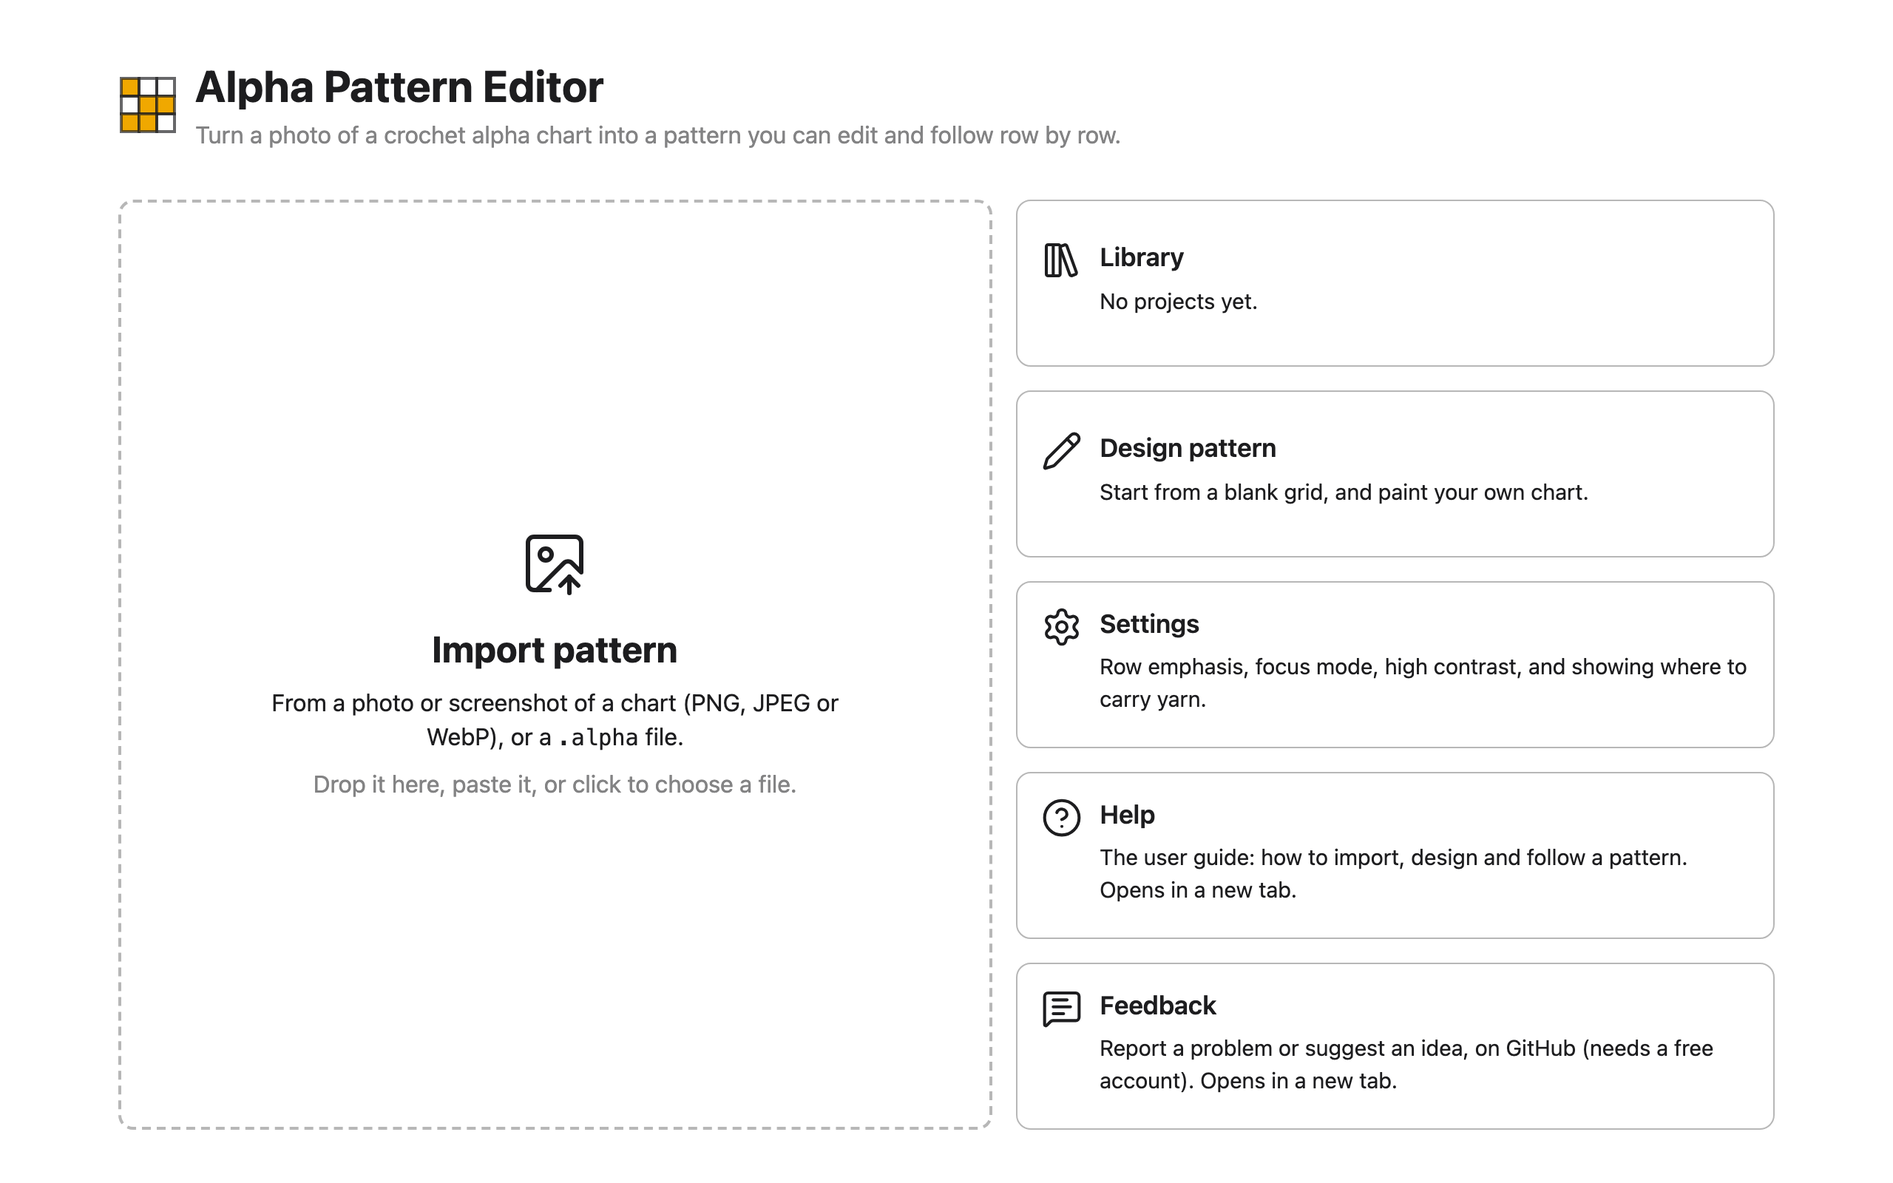
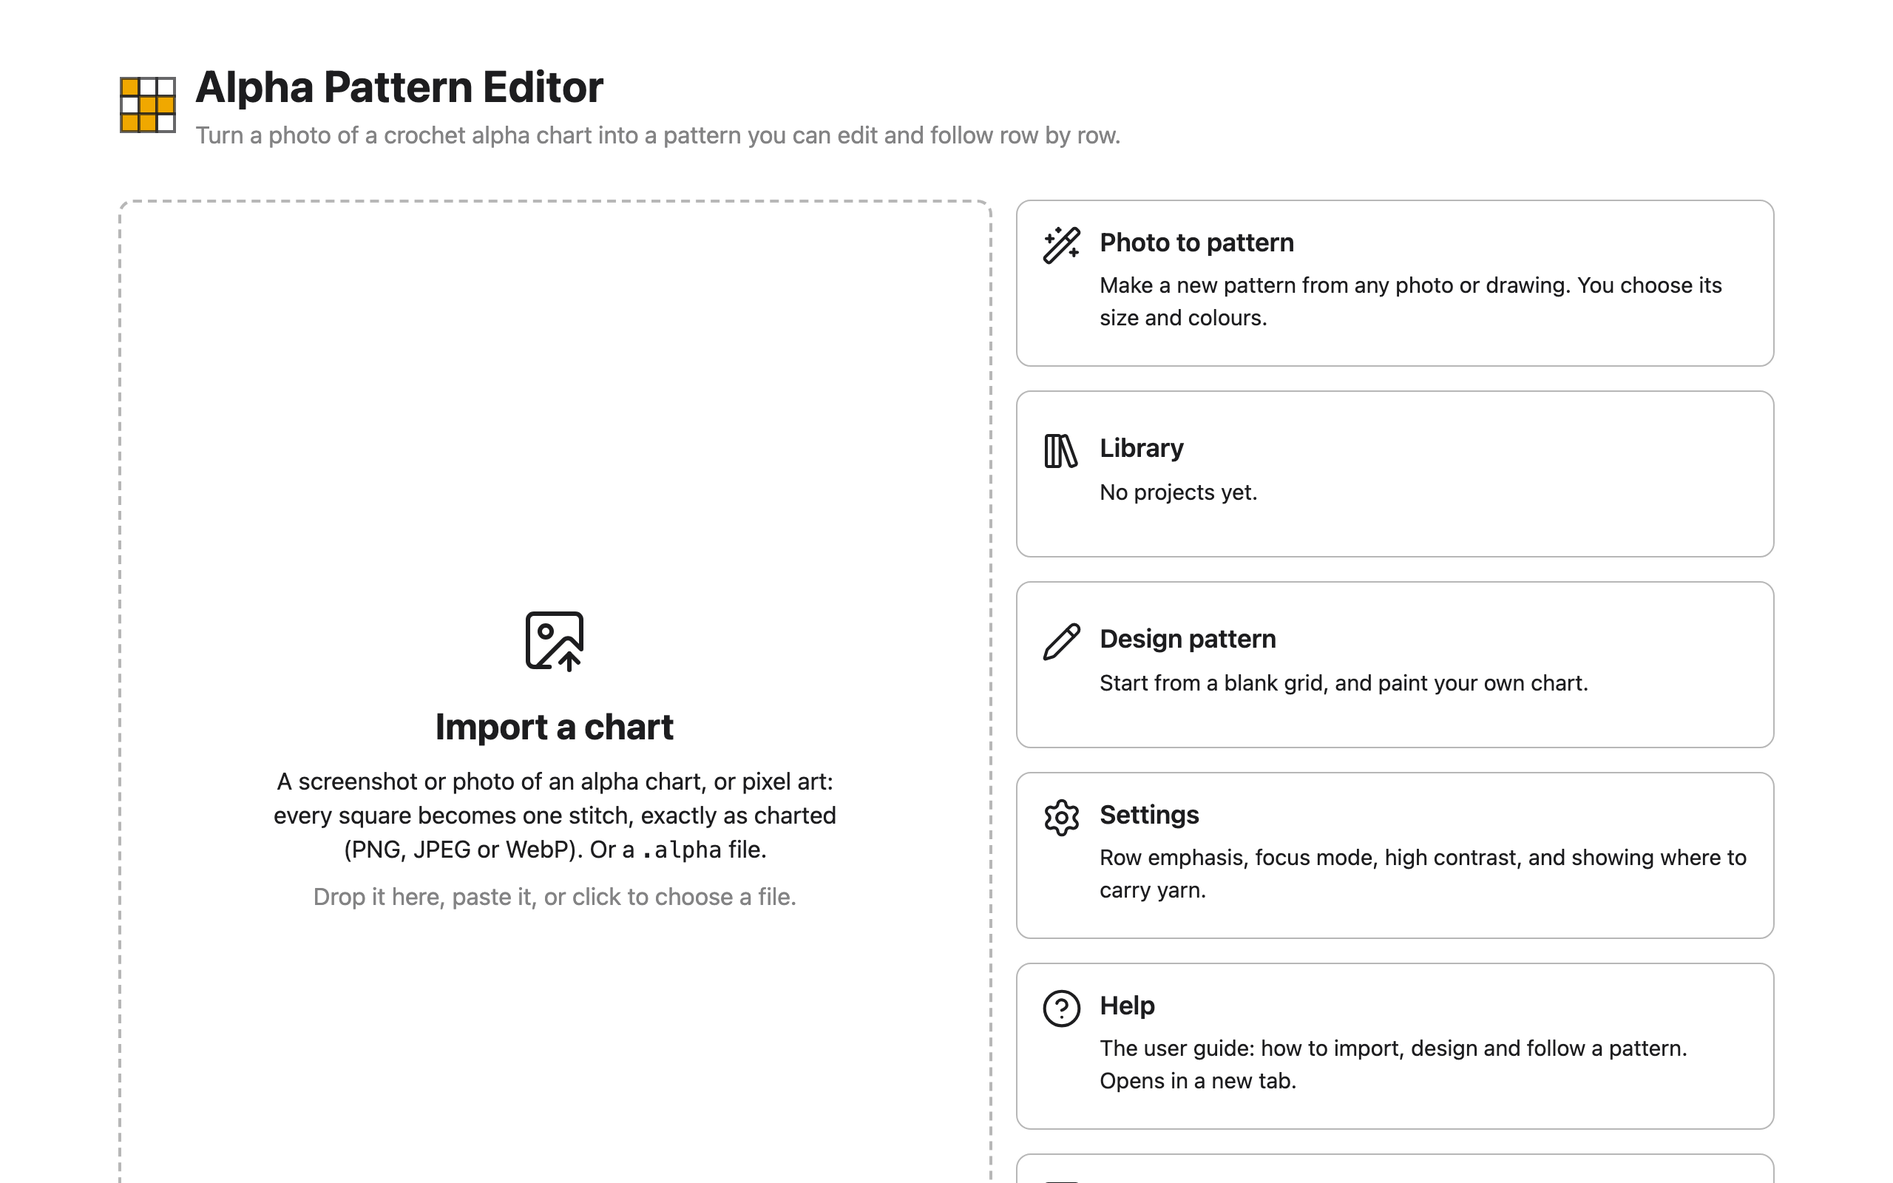
Docs: Import a chart and Photo to pattern
The guide's import page gains a Photo to pattern section (the app's ? links to
it) and pixel art; the home screen and import screenshots are regenerated. Spec
§5a, a rule that the person says chart or photo, the import area note, the
changelog and the README follow.

diff --git a/docs/dev/areas/import.md b/docs/dev/areas/import.md
@@ -135,7 +135,8 @@ Newest last, as they were built.
     found). A chart read with doubts (over 15% unsure) says "Not sure this is a chart" in
     the warning colour. A chart detection refuses as too fine or tilted keeps its advice
     and adds "Turn it into a pattern anyway": such an image is never converted unasked.
-    For a chart, that one line is all that changes.
+    For a chart, that one line is all that changes. (Since replaced by two ways in, and
+    no switching: [Import a chart, or Photo to pattern](#chart-or-photo).)
   - **A picture's controls:** Width (a slider, stitches across; rows follow; "60 × 45
     stitches, about 38 × 28 cm" once the swatch is measured) and Detail (Smoothest …
     Every stitch) sit above the colour list, so the stages' chrome (`--col-chrome`) is
@@ -174,7 +175,8 @@ Newest last, as they were built.
 - <a id="pixel-images"></a>**Pixel images** (`core/pixels.py`, `kind.py`, the bridge's `pixels` mode; spec.md
   §5a). Pixel art without gridlines is read exactly, a stitch per block: "Read pixel by
   pixel: each block of your image is one stitch.", with "Turn it into a pattern instead"
-  and back ("Read it pixel by pixel instead"). No outline or box; colours merge as a
+  and back ("Read it pixel by pixel instead"; since gone, see
+  [Import a chart, or Photo to pattern](#chart-or-photo)). No outline or box; colours merge as a
   chart's. Before, an 8× sprite came out cropped (60×60 as 51×58), 4× and 1:1 were
   refused, and a real 8× city (137×126) was a "sure chart" spanning 69% of it.
   - Found by testing real CC0 pixel art (`test_images/pixels/`, fetched with provenance by
@@ -255,6 +257,44 @@ Newest last, as they were built.
     was nearest olive. "tree green" (`#2a7e19`, from the xkcd survey) is now an anchor.
   - Speed, natively: a drawing's preview 0.7–0.9 s at 122–156 wide (was 0.6–0.7 s);
     photos unchanged.
+- <a id="chart-or-photo"></a>**Import a chart, or Photo to pattern** (`core/kind.read_chart`,
+  `bridge.open_session(intent=)`, `ui/screens/Import.tsx`, `app/router.ts`, the home
+  screen; spec.md §5a). The person says what they have, in place of the app deciding
+  with a line and a switch ("Read from the squares of your chart. · Turn it into a
+  pattern instead").
+  - **Why:** the owner pasted charts that were called pictures and converted, though
+    "Read it as a chart instead" then read them perfectly. `kind.py` rejects a grid on any
+    of five measures; of 300 synthetic charts, 7 were judged pictures, 5 of them only
+    because the grid spanned under 60% of one side (`span` 0.48–0.61), as a screenshot
+    with page around the chart does. All 7 are now read: 5 at the size they were drawn; the
+    other 2 (60% and 95% of squares unsure, so shown with the warning) 13 and 1 columns
+    off. The wording confused too: everything the
+    import makes is "a pattern". Research (Stitch Fiddle asks for "Picture" up front;
+    nine or more free tools convert photos; none found reads an existing chart's
+    squares) put the chart first and the photo path beside it.
+  - **Import a chart** (`#/import`, the drop zone, paste, the Library's picker):
+    `read_chart` reads pixel art block by block as before, and any grid as a chart.
+    Nothing more is said of a clean chart. Over 15% of squares unsure: "⚠ Many squares
+    were hard to read. Check the pattern against your image before you save." with
+    "Use Photo to pattern instead". Pixel art: "Read as pixel art: each block of your
+    image is one stitch.", with nothing to switch to. No grid, or refused: detection's
+    advice, then "Not a chart? Photo to pattern makes a new pattern from any photo or
+    drawing." and **Use Photo to pattern**.
+  - **Photo to pattern** (`#/photo`, a tile beside the drop zone): `open_session(intent=
+    "picture")` converts without detecting (no line above the stages: the title says
+    it). Its controls are as before. The button from a chart hands the same image and the
+    name typed over (`PendingImage.name`) and navigates, so Back reads it as a chart
+    again; the worker stays (App.tsx releases it off both routes).
+  - **Gone:** `bridge.set_mode`, the worker's `mode` request, `DetectSession.setMode`, and
+    `canChart`/`canPixels` in `reading`: nothing switches inside a session any more. Pixel
+    art can't be turned into a picture on its screen; Photo to pattern converts it.
+  - Tests that fail without it: on `main`'s `kind.py` and `bridge.py`, a chart that
+    `_chart_or_picture` judges a picture opens with `mode` "picture"
+    (`test_a_grid_judged_a_pictures_is_still_read_as_a_chart`,
+    `test_a_forced_chart_with_many_unsure_squares_is_not_sure`). `test_kind.py` reads every
+    corpus chart, picture and pixel image through `read_chart`: never a picture.
+  - Tier A (gzipped, `main` → this): main chunk 109.66 → 110.48 KB (the tile, its icon,
+    the route), Import 10.84 → 10.45 KB, Design 33.34 → 33.19 KB.
 
 ## During the port
 

diff --git a/docs/guide/import.md b/docs/guide/import.md
@@ -1,9 +1,12 @@
 # Importing a chart
 
-The import screen turns a picture of a chart into a pattern. The app finds the grid,
+**Import a chart** turns a picture of a chart into a pattern. The app finds the grid,
 reads each stitch's colour and names the colours; your job here is only to check that the
 grid is right, and fix it if it isn't. Changing the pattern itself (painting, removing or
 renaming colours) comes next, in [Design](design.md).
+
+Don't have a chart, just a photo or a drawing? Use
+[Photo to pattern](#photo-to-pattern) instead: it makes a new chart from any image.
 
 <img src="media/import-detected-grid.png" alt="The import screen: the chart image with the detected grid on the left, the pattern it became in the middle, and its five colours with stitch counts on the right" width="800">
 
@@ -23,6 +26,11 @@ a chart best when:
 Row and column numbers, watermarks, captions and page margins around the grid are fine:
 they're left out.
 
+**Pixel art** works too, with or without gridlines: a game sprite or an icon, enlarged or
+not. Each block of colour becomes one stitch, exactly, and the screen says "Read as pixel
+art". There's no outline to move, since nothing is guessed. (Pixel art saved as JPEG
+isn't exact, so it's read as a chart instead.)
+
 Very large photos are shrunk before reading (to about 4 megapixels). The app says so
 under the pattern when it does: check the size, and fix it in Design if needed.
 
@@ -33,8 +41,11 @@ From the home screen or the [Library](library.md):
 - **drop** the image anywhere on the page;
 - **paste** it (`Ctrl+V`, or `Cmd+V` on a Mac), for example straight after taking a
   screenshot;
-- or click **Import pattern** (on the home screen) or **Import pattern…** (in the Library)
+- or click **Import a chart** (on the home screen) or **Import pattern…** (in the Library)
   and choose the file. On a phone or tablet, tap it.
+
+An image opened this way is always read as a chart: the app never turns it into a
+different pattern by itself.
 
 One image is imported at a time. If you drop several, the first opens and the app says
 so.
@@ -58,7 +69,10 @@ Compare the pattern with your image. The most common problems are a row or colum
 at an edge, or two shades that should be one colour. Both are fixed below.
 
 A warning (⚠) above the image means the app is less sure than usual; see
-[Troubleshooting](troubleshooting.md#a-warning-shows-above-the-image).
+[Troubleshooting](troubleshooting.md#a-warning-shows-above-the-image). "Many squares
+were hard to read" means many squares didn't come out as one clear colour: compare the
+pattern with your image before you save. If your image is really a photo and not a chart,
+**Use Photo to pattern instead** beside it takes the same image there.
 
 ## Fix a grid that's a row or column short
 
@@ -118,3 +132,30 @@ If the app can't read the image, it says why in place of the pattern, with what 
 Each message and its fix is in [Troubleshooting](troubleshooting.md#import-messages).
 Most often, a box dragged around just the squares, or a larger, straighter copy of the
 chart, gets it read.
+
+If the image isn't a chart at all, **Use Photo to pattern**, under the message, takes it
+(and the name you typed) to [Photo to pattern](#photo-to-pattern). Your browser's Back
+button returns to reading it as a chart.
+
+## Photo to pattern
+
+**Photo to pattern**, a tile on the home screen, makes a new chart from any photo or
+drawing: a pet, a flower, a logo. Unlike importing a chart, nothing is read from the
+image square by square. It's redrawn in stitches, and you choose how:
+
+- **Width:** how many stitches across. The rows follow from the image's shape (and from
+  your swatch, once it's measured in [Settings](settings.md), which also gives the
+  finished size in cm).
+- **Detail:** from "Fewer colour changes", which smooths away lone stitches you'd have to
+  change yarn for, to "More detail".
+- **Keep outlines:** for drawings with dark lines, such as a cartoon. It keeps them, one
+  stitch thick. Off to start with; turn it on and see whether it helps.
+- **Colours:** the − and + beside the heading make the pattern again with one colour
+  fewer or more.
+
+The blue outline crops the image: drag an edge to use only part of it, or drag a box on
+the image. **Use the whole picture** undoes it. Then name the pattern and press
+**Save & edit pattern**, as for a chart.
+
+Crop close to what you want to see: the background is stitches you'll crochet and never
+look at.

diff --git a/docs/dev/spec.md b/docs/dev/spec.md
@@ -273,11 +273,27 @@ Build a debug window early — not last — rendering: dark mask, `run_h`/`run_v
 
 ## 5a. Pictures (web only)
 
-The web import takes any image. A **chart** is read (§5); anything else is a **picture**,
-turned into a pattern. There is no choice to make up front: the app decides, says which,
-and the other reading is one click away. The desktop app stays chart-only.
+The web app has two ways in, and the person chooses: **Import a chart** reads a chart
+(§5), or pixel art block by block; **Photo to pattern** turns any image into a pattern as
+a **picture**. Reading a chart is what the app is for, so it has the home screen's drop
+zone, and a dropped or pasted image is read as a chart; Photo to pattern has its own tile
+and screen (`#/photo`). The desktop app stays chart-only.
 
-### Chart or picture (`core/kind.py`)
+Asked for a chart, the app tries its hardest to read one and never converts unasked:
+any grid detection finds is read, whatever `kind.py` makes of it below
+(`kind.read_chart`), and with no grid the screen gives detection's advice, with a button
+to Photo to pattern. A chart read with more than 15% of its squares unsure is shown with
+a warning to check it, and the same button. Asked for a picture, nothing is detected.
+
+Before, one import decided by itself, and a chart judged a picture (most often a
+screenshot whose grid spans under 60% of one side) was converted, a dead end until the
+person found the switch. 7 of 300 synthetic charts in `synth.random_spec` were judged so;
+all 7 are now read as charts.
+
+### Chart, picture or pixel art (`core/kind.py`)
+
+`kind.read_image` still classifies, because pixel art is told from a chart by it (below,
+and `rules.md#pixel-art-last`), and its verdicts are tested image by image.
 
 Detection's success or failure doesn't decide it: most photos fail as LOW_RESOLUTION
 (texture fits 3–5 px squares), and so does a real chart with 5 px squares; a picture can
@@ -286,11 +302,11 @@ it spans at least 60% of each side, its edge strength on the lattice is at least
 that half a square off it, its gridlines have an edge along at least half their length
 (a drawing's lattice crosses its lines at a point or two), and no more than 60% of its
 cells are unsure. With more than
-15% unsure it is a chart **with doubts**, and the picture reading is offered prominently.
+15% unsure it is a chart **with doubts**.
 A LOW_RESOLUTION or ROTATED refusal stays a chart's refusal only if a fit below the
 minimum square size still looks like a grid (square to 1.2:1, contrast 1.25, 70% of the
-lattice on detected lines); then the screen gives the advice to fix it, and "turn it into
-a pattern anyway". Everything else is a picture.
+lattice on detected lines). Everything else is a picture; `read_chart` reads such a
+picture's grid as a chart all the same, or reports detection's refusal.
 
 Calibrated on every chart in `test_images/` and 25 CC0 pictures in
 `test_images/pictures/` (animals, landscapes, drawings, and grid-like photos: tiles, brick,
@@ -409,8 +425,8 @@ Minimal, high-contrast, glanceable. The design goal is that a person mid-row can
 
 File dialog, drag-and-drop, and **paste from clipboard** (`Ctrl+V` of a screenshot is the most common real-world path — support it via `QGuiApplication.clipboard().image()`).
 
-(Web: any image, not only a chart. It is read as a chart or turned into a pattern as a
-picture, §5a, and the screen says which.)
+(Web: "Import a chart" reads a chart or pixel art; "Photo to pattern" turns any image
+into a pattern as a picture, §5a.)
 
 ### 7.2 Confirmation — the reliability gate
 

diff --git a/docs/dev/rules.md b/docs/dev/rules.md
@@ -82,8 +82,17 @@ break without noticing.
   otherwise. Run `npm install` in `scripts/parity/` once first.
 - <a id="failure-not-picture"></a>**A detection failure is not a picture, and a detected grid is not a chart.** Most
   photos fail as LOW_RESOLUTION, as real charts with small squares do; pictures can fit a
-  nonsense grid. `kind.py` decides from what the grid looks like, and `test_kind.py`
+  nonsense grid. `kind.read_image` judges from what the grid looks like, and `test_kind.py`
   names every corpus image with its kind. Add an image there before moving a threshold.
+  The judgement no longer decides what the import does (below); it tells pixel art from
+  a chart.
+- <a id="chart-or-photo-asked"></a>**The person says chart or photo; the app never decides it.** "Import a chart"
+  (`intent` "chart", `kind.read_chart`) reads any grid detection finds, even one
+  `read_image` judges a picture's, and with none it fails with detection's advice; it
+  never returns a picture. "Photo to pattern" (`intent` "picture") detects nothing. A
+  readable chart called a picture was a dead end (the owner hit it pasting charts); a
+  photo read as a chart is plain to see beside the image, and its screen offers Photo to
+  pattern. Don't add an automatic switch from one to the other.
 - <a id="converter-deterministic"></a>**The converter must stay deterministic to the last bit.** No random seeds (the
   colours are seeded by splits and power iteration, not LAPACK), and Lab values and
   stitch costs are rounded to 6 decimals: without the rounding, 5 of 114 images put a
@@ -95,10 +104,9 @@ break without noticing.
 - <a id="picture-controls"></a>**A picture's controls live above the colour list, never under a stage.** The column
   chrome under the stages is a measured constant (`--col-chrome`); anything added there
   must change it too, or the stages overflow the window.
-- <a id="refused-chart"></a>**A chart the detector refuses is never converted unasked.** LOW_RESOLUTION and ROTATED
-  on an image with a grid's structure stay failures with their advice, and the picture
-  reading is a button ("Turn it into a pattern anyway"): a converted chart looks
-  plausible and is wrong.
+- <a id="refused-chart"></a>**A chart the detector refuses is never converted unasked.** Every refusal stays a
+  failure with its advice, and Photo to pattern is a button ("Use Photo to pattern"): a
+  converted chart looks plausible and is wrong.
 - <a id="picture-colour-weight"></a>**A picture's colours are weighted towards detail, capped at 4×.** Uncapped (squared,
   as first tried), a white background filling half a picture weighed 1/156 of the rest
   and lost its colour. Small distinct areas are protected by the "unexplained samples"

diff --git a/docs/guide/index.md b/docs/guide/index.md
@@ -33,18 +33,20 @@ You can go back and forth between Design and Work as often as you like: **Start 
 in Design, and **Options** then **Edit pattern…** in Work. Everything is saved as you go;
 there's no Save button.
 
-The home screen leads to all of it: the big **Import pattern** area, and **Library**,
-**Design pattern**, **Settings**, **Help** and **Feedback** beside it. **Help** opens this
+The home screen leads to all of it: the big **Import a chart** area, and
+**Photo to pattern** (a new chart made from any photo or drawing,
+[how](import.md#photo-to-pattern)), **Library**, **Design pattern**, **Settings**,
+**Help** and **Feedback** beside it. **Help** opens this
 guide, and the **?** at the top of every other screen opens the page about that screen.
 
-<img src="media/landing.png" alt="The home screen: a large dashed Import pattern area on the left, and the Library, Design pattern, Settings, Help and Feedback tiles stacked on the right" width="700">
+<img src="media/landing.png" alt="The home screen: a large dashed Import a chart area on the left, and the Photo to pattern, Library, Design pattern, Settings, Help and Feedback tiles stacked on the right" width="700">
 
 ## Import your first chart
 
 1. Find a picture of an alpha chart: a screenshot, a saved image, or a photo. Charts with
    visible gridlines, taken straight on, work best (see
    [which images work](import.md#choose-an-image-that-works)).
-2. Open the app, and drop the image on the **Import pattern** area, paste it (`Ctrl+V`,
+2. Open the app, and drop the image on the **Import a chart** area, paste it (`Ctrl+V`,
    or `Cmd+V` on a Mac), or click the area to choose the file. On a phone or tablet, tap
    it.
 3. The first time, the app downloads its chart reader, about 9 MB. Wait for

diff --git a/CHANGELOG.md b/CHANGELOG.md
@@ -28,6 +28,11 @@ line per change, under the release it's in.
 
 ### Changed
 
+- Importing is two things now. **Import a chart** (the big area on the home screen, and
+  pasting) always reads your image as a chart: it no longer decides that a chart is a
+  picture and turns it into a different pattern. **Photo to pattern**, a new tile, makes
+  a new chart from any photo or drawing. When a chart can't be read, or many of its
+  squares are unclear, a button takes the same image to Photo to pattern.
 - The home screen says what the app is for: turn a photo of a chart into a pattern you
   can edit and follow row by row.
 - In the Work stage, a pattern much wider than it is tall now fits the screen whole, so

diff --git a/docs/guide/troubleshooting.md b/docs/guide/troubleshooting.md
@@ -11,6 +11,10 @@ version from **About** at the bottom of [Settings](settings.md#find-which-versio
 When the app can't read an image, it says why where the pattern would be. The small print
 underneath, such as "Detection failed (NO_GRIDLINES)", is for bug reports.
 
+If the image is a photo or a drawing rather than a chart, none of these fixes apply:
+press **Use Photo to pattern** under the message to make a new chart from it
+([Photo to pattern](import.md#photo-to-pattern)).
+
 ### "I couldn't find the grid in this image."
 
 The app didn't find the chart's gridlines. Drag a box around just the squares on your

diff --git a/README.md b/README.md
@@ -19,7 +19,10 @@ it missed a row, merge colours that should be one, and save.
 
 Works best on charts with visible gridlines and even rows, not rotated, with at least
 about 6 pixels per stitch. Row and column numbers, watermarks and page margins around the
-grid are ignored.
+grid are ignored. Pixel art is read exactly too, a stitch per block.
+
+No chart, just a photo or a drawing? **Photo to pattern** makes a new chart from it: you
+choose the width, the detail and the number of colours.
 
 ## Design it
 

diff --git a/docs/guide/library.md b/docs/guide/library.md
@@ -47,7 +47,7 @@ a cloud drive. See [Your data](your-data.md).
 2. Get the `.alpha` file to the other device: email it to yourself, or put it on a cloud
    drive.
 3. On the other device, open the app and import the file: drop it on the home screen or
-   the Library, or choose it with **Import pattern** (home screen) or
+   the Library, or choose it with **Import a chart** (home screen) or
    **Import pattern…** (Library).
 
 Your progress comes with it. You can import several `.alpha` files at once.
